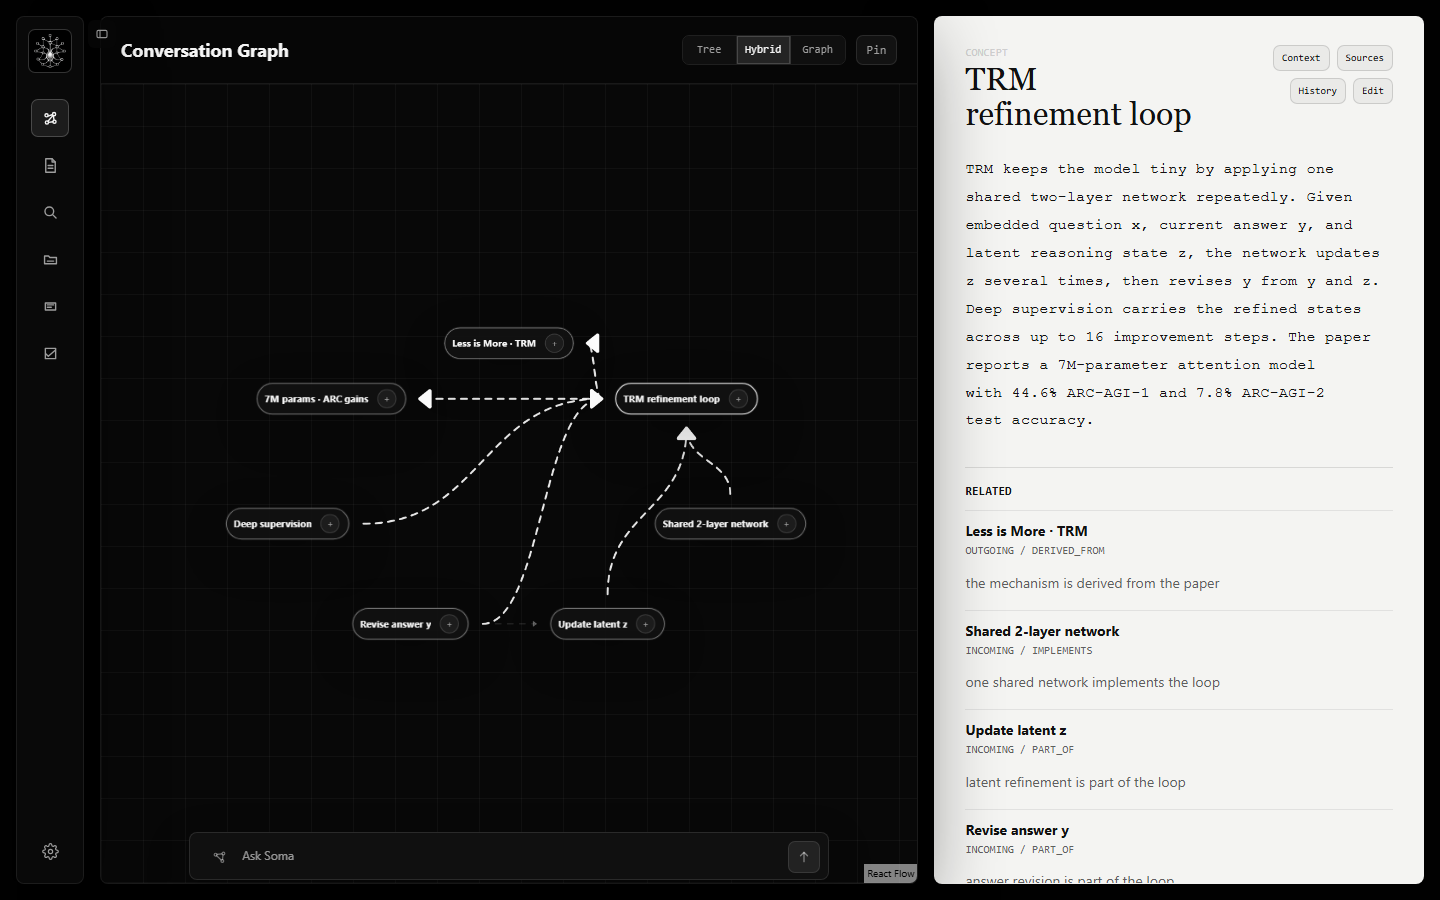
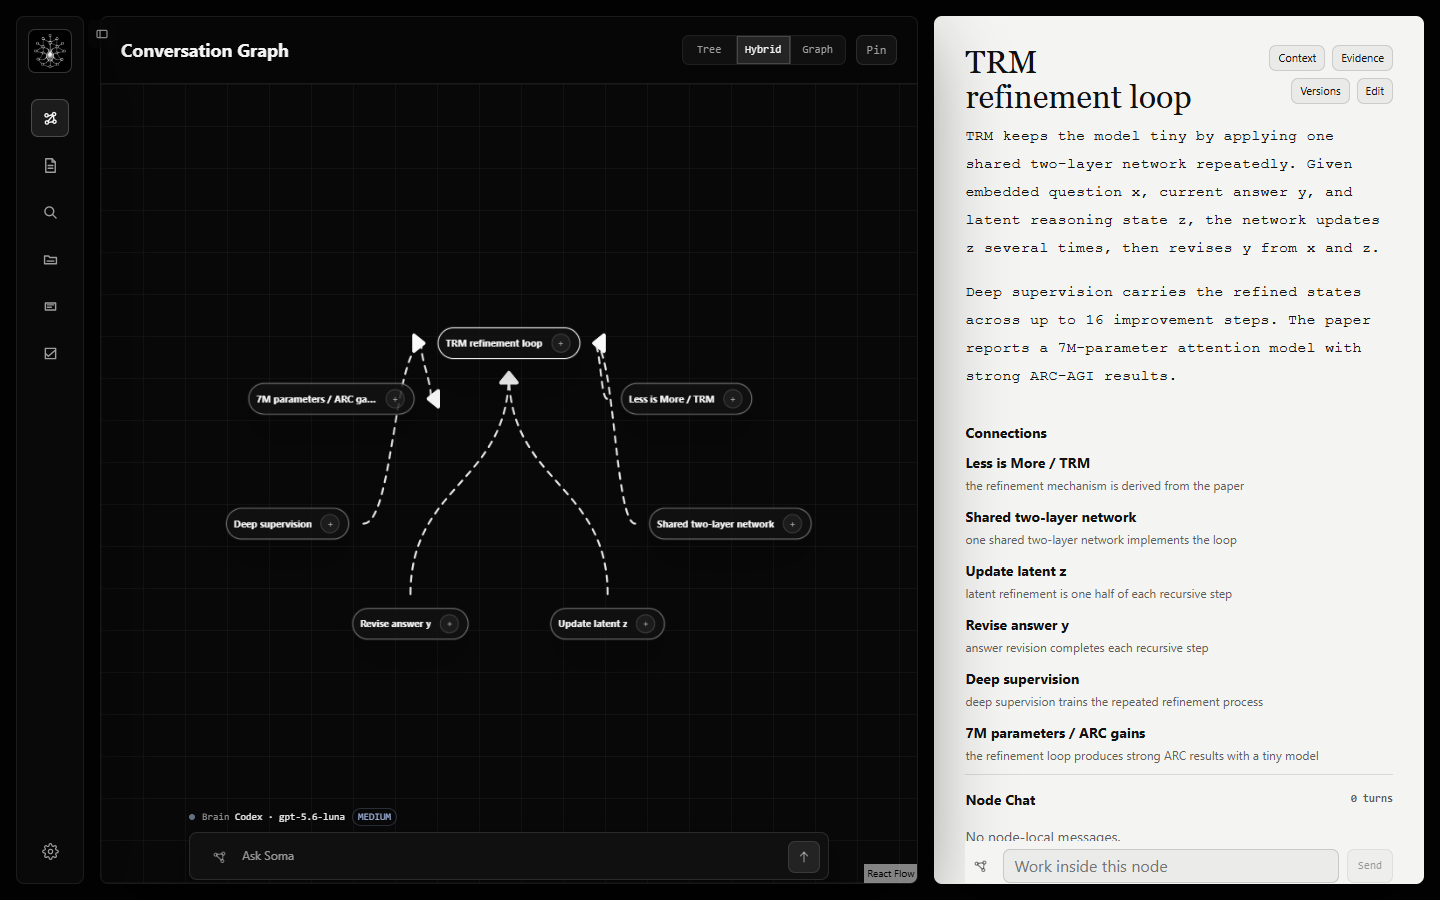
Update screenshots

diff --git a/test/paper-chat.smoke.spec.ts b/test/paper-chat.smoke.spec.ts
@@ -119,6 +119,16 @@ test('paper state and chat dock stay stable while reading', async ({ page }) => 
   const transcript = page.locator('.graphChatTranscriptInner');
   await expect(transcript).toBeVisible();
   await expectOpaqueSurface(transcript);
+  const brainStatus = composer.getByRole('status');
+  await expect(brainStatus).toContainText('Brain Codex /');
+  await expect(brainStatus).toContainText('medium');
+  await expect(brainStatus).not.toContainText('effort');
+  await expect(brainStatus.locator('.brainRunSignal')).toHaveCount(0);
+  const transcriptBox = await requiredBox(transcript);
+  const composerWithTranscriptBox = await requiredBox(composer);
+  const transcriptGap = composerWithTranscriptBox.y - (transcriptBox.y + transcriptBox.height);
+  expect(transcriptGap).toBeGreaterThanOrEqual(0);
+  expect(transcriptGap).toBeLessThanOrEqual(10);
   const chatArgs = await page.evaluate(() => (
     globalThis as typeof globalThis & { __lastGraphChatArgs?: Record<string, unknown> }
   ).__lastGraphChatArgs);

diff --git a/apps/desktop/src/features/graph-chat/GraphChatPanel.tsx b/apps/desktop/src/features/graph-chat/GraphChatPanel.tsx
@@ -190,16 +190,16 @@ export function GraphChatPanel({
           if (!readingContextPending) void onSubmit();
         }}
       >
-        <BrainRunStatus
-          brainLabel={brainLabel}
-          effort={activeRun?.effort ?? brainEffort}
-          active={activeRun !== null}
-          startedAt={activeRun?.startedAt ?? null}
-          stopping={activeRun?.stopping}
-          canStop={canStop}
-          onStop={onStop}
-        />
         <div className="graphChatComposer hasCaptureToggle">
+          <BrainRunStatus
+            brainLabel={brainLabel}
+            effort={activeRun?.effort ?? brainEffort}
+            active={activeRun !== null}
+            startedAt={activeRun?.startedAt ?? null}
+            stopping={activeRun?.stopping}
+            canStop={canStop}
+            onStop={onStop}
+          />
           <CaptureGraphToggle
             enabled={captureGraphChanges}
             onChange={onCaptureGraphChangesChange}

diff --git a/test/node-chat.smoke.spec.ts b/test/node-chat.smoke.spec.ts
@@ -85,8 +85,11 @@ test('node chat shows its Brain and accepts the next draft while blocking duplic
 
   await expect(nodeChat.getByRole('button', { name: 'Thinking' })).toBeDisabled();
   await expect(composer).toBeEnabled();
-  await expect(nodeChat.getByRole('status')).toContainText('Running Codex · gpt-5.6-luna');
-  await expect(nodeChat.getByRole('status')).toContainText('medium');
+  const brainStatus = nodeChat.getByRole('status');
+  await expect(brainStatus).toContainText('Running Codex / gpt-5.6-luna');
+  await expect(brainStatus).toContainText('medium');
+  await expect(brainStatus).not.toContainText('effort');
+  await expect(brainStatus.locator('.brainRunSignal')).toHaveCount(0);
   await expect(nodeChat.getByRole('button', { name: 'Stop' })).toBeVisible();
   await expect(nodeChat.getByText('Thinking...')).toBeVisible();
   await expect.poll(() => page.evaluate(() => (

diff --git a/apps/desktop/src/shared/styles/brain-run-status.css b/apps/desktop/src/shared/styles/brain-run-status.css
@@ -9,20 +9,6 @@
   line-height: 1;
 }
 
-.brainRunSignal {
-  width: 6px;
-  height: 6px;
-  flex: 0 0 auto;
-  border-radius: 50%;
-  background: rgba(142, 160, 187, 0.68);
-}
-
-.brainRunStatus.isActive .brainRunSignal {
-  background: #8db1ff;
-  box-shadow: 0 0 0 4px rgba(111, 153, 238, 0.12);
-  animation: brainRunPulse 1.4s ease-in-out infinite;
-}
-
 .brainRunIdentity {
   min-width: 0;
   overflow: hidden;
@@ -37,11 +23,8 @@
 
 .brainRunEffort {
   flex: 0 0 auto;
-  padding: 3px 5px;
-  border: 1px solid color-mix(in srgb, currentColor 22%, transparent);
-  border-radius: 999px;
   color: rgba(179, 203, 249, 0.88);
-  text-transform: uppercase;
+  white-space: nowrap;
 }
 
 .brainRunStatus time {
@@ -70,10 +53,4 @@
 .brainRunStatus button:disabled {
   cursor: wait;
   opacity: 0.62;
-}
-
-@keyframes brainRunPulse {
-  50% {
-    opacity: 0.48;
-  }
 }

diff --git a/apps/desktop/src/features/settings/aiSettingsViewModel.ts b/apps/desktop/src/features/settings/aiSettingsViewModel.ts
@@ -76,7 +76,7 @@ export function activeBrainLabel(settings: AiSettingsDraft | null) {
   if (!settings) return 'Loading Brain';
   const provider = providerById(settings.providerId);
   const model = effectiveBrainModel(settings);
-  return model ? `${provider.shortName} · ${model}` : provider.shortName;
+  return model ? `${provider.shortName} / ${model}` : provider.shortName;
 }
 
 export function activeBrainEffort(settings: AiSettingsDraft | null, capturesGraph: boolean) {

diff --git a/apps/desktop/src/shared/BrainRunStatus.tsx b/apps/desktop/src/shared/BrainRunStatus.tsx
@@ -31,7 +31,6 @@ export function BrainRunStatus({
 
   return (
     <div className={`brainRunStatus ${active ? 'isActive' : 'isIdle'}`} role="status" aria-live="polite">
-      <span className="brainRunSignal" aria-hidden="true" />
       <span className="brainRunIdentity">
         {active ? 'Running' : 'Brain'} <strong>{brainLabel}</strong>
       </span>

diff --git a/apps/desktop/src/shared/styles/graph-chat.css b/apps/desktop/src/shared/styles/graph-chat.css
@@ -436,6 +436,12 @@
   grid-template-columns: 32px minmax(0, 1fr) 34px;
 }
 
+.graphChatComposer > .brainRunStatus {
+  grid-column: 1 / -1;
+  min-height: 14px;
+  padding: 2px 2px 0 0;
+}
+
 .graphChatComposer:focus-within {
   box-shadow:
     0 14px 42px rgba(0, 0, 0, 0.32),
